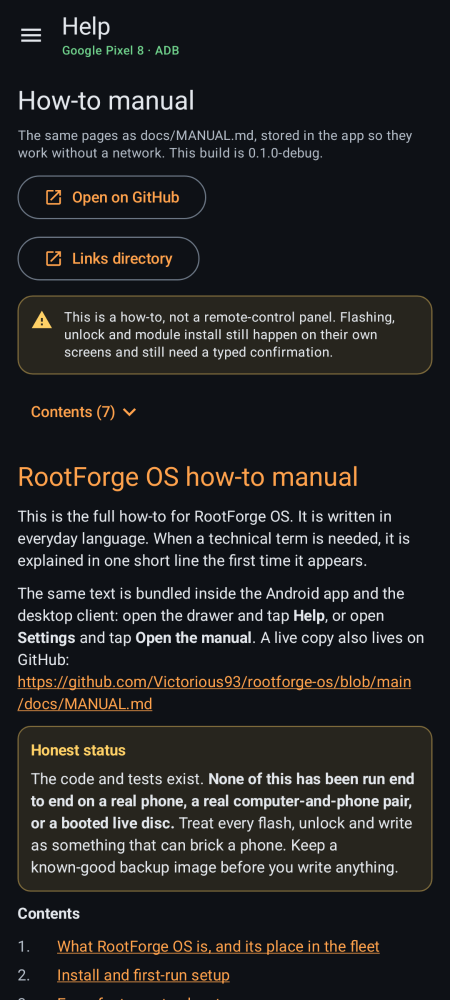
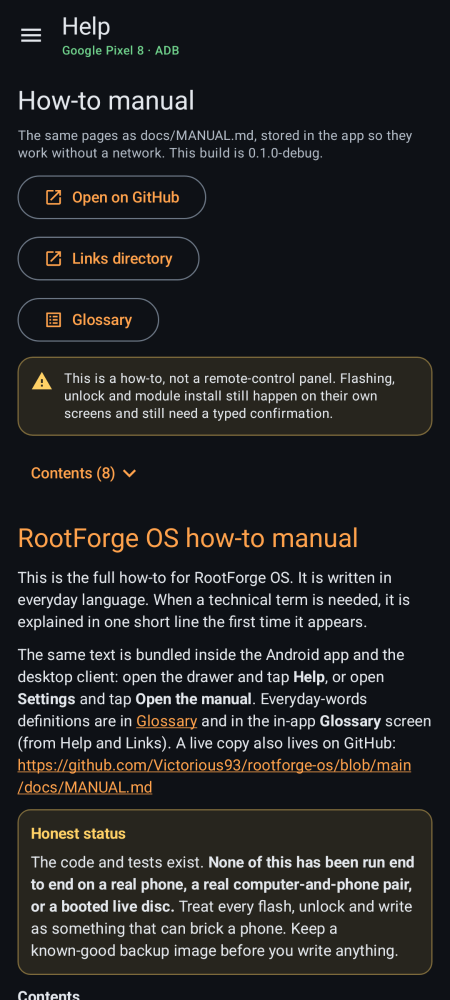
test: record Glossary Paparazzi goldens and suite counts
AutoMirrored ListAlt icon, help/links/glossary screenshots, MANUAL
screenshot, and verified counts: :core 324/0, :desktop 2/0, :app 34/0,
assembleDebug identity unchanged, hermetic 1055/0, lint clean.

Not run on a phone.

diff --git a/android-app/app/src/main/kotlin/ai/rootforge/os/ui/screens/LinksScreen.kt b/android-app/app/src/main/kotlin/ai/rootforge/os/ui/screens/LinksScreen.kt
@@ -16,7 +16,7 @@ import androidx.compose.foundation.layout.FlowRow
 import androidx.compose.material.icons.Icons
 import androidx.compose.material.icons.automirrored.filled.OpenInNew
 import androidx.compose.material.icons.filled.Link
-import androidx.compose.material.icons.filled.ListAlt
+import androidx.compose.material.icons.automirrored.filled.ListAlt
 import androidx.compose.material3.MaterialTheme
 import androidx.compose.material3.Text
 import androidx.compose.runtime.Composable
@@ -33,7 +33,7 @@ fun LinksScreen(actions: AppActions, onOpenGlossary: () -> Unit = {}) {
             "These are official project pages. Tapping a button opens the system browser. " +
                 "RootForge does not download, install or vet anything from this list.",
         )
-        ActionButton("Glossary", Icons.Filled.ListAlt, ActionKind.Outline) { onOpenGlossary() }
+        ActionButton("Glossary", Icons.AutoMirrored.Filled.ListAlt, ActionKind.Outline) { onOpenGlossary() }
         LinkSection.entries.forEach { section ->
             val links = DirectoryLinks.all.filter { it.section == section }
             if (links.isNotEmpty()) {

diff --git a/android-app/app/src/main/kotlin/ai/rootforge/os/ui/RootForgeUi.kt b/android-app/app/src/main/kotlin/ai/rootforge/os/ui/RootForgeUi.kt
@@ -36,7 +36,7 @@ import androidx.compose.material.icons.filled.Extension
 import androidx.compose.material.icons.filled.FlashOn
 import androidx.compose.material.icons.automirrored.filled.Help
 import androidx.compose.material.icons.filled.Link
-import androidx.compose.material.icons.filled.ListAlt
+import androidx.compose.material.icons.automirrored.filled.ListAlt
 import androidx.compose.material.icons.filled.Memory
 import androidx.compose.material.icons.filled.QuestionAnswer
 import androidx.compose.material.icons.filled.Menu
@@ -88,7 +88,7 @@ enum class Destination(val title: String, val icon: ImageVector) {
     Settings("Settings", Icons.Filled.Settings),
     Help("Help", Icons.AutoMirrored.Filled.Help),
     Links("Links", Icons.Filled.Link),
-    Glossary("Glossary", Icons.Filled.ListAlt),
+    Glossary("Glossary", Icons.AutoMirrored.Filled.ListAlt),
 }
 
 @OptIn(ExperimentalMaterial3Api::class)

diff --git a/android-app/app/src/main/kotlin/ai/rootforge/os/ui/screens/ManualScreen.kt b/android-app/app/src/main/kotlin/ai/rootforge/os/ui/screens/ManualScreen.kt
@@ -22,7 +22,7 @@ import androidx.compose.material.icons.Icons
 import androidx.compose.material.icons.filled.ExpandLess
 import androidx.compose.material.icons.filled.ExpandMore
 import androidx.compose.material.icons.automirrored.filled.OpenInNew
-import androidx.compose.material.icons.filled.ListAlt
+import androidx.compose.material.icons.automirrored.filled.ListAlt
 import androidx.compose.material3.HorizontalDivider
 import androidx.compose.material3.Icon
 import androidx.compose.material3.MaterialTheme
@@ -93,7 +93,7 @@ fun ManualScreen(
                 ) { onOpenLinks() }
                 ActionButton(
                     "Glossary",
-                    Icons.Filled.ListAlt,
+                    Icons.AutoMirrored.Filled.ListAlt,
                     ActionKind.Outline,
                 ) { onOpenGlossary() }
             }

diff --git a/CLAUDE.md b/CLAUDE.md
@@ -21,7 +21,12 @@ matrix: `docs/PLATFORM_SUPPORT.md`. Security: `docs/SECURITY_MODEL.md`. Plan:
 > `docs/MANUAL.md` § Glossary (bundled in Help). Links still lists Xposed,
 > LSPosed, Vector and Sui. `:core` `GlossaryTest` requires every entry
 > non-empty and unique. `applicationId`, signing and versioning unchanged.
-> **Suite counts filled after tests this session.** **Not run:** a phone.
+> `:core:test` 324/0 (`GlossaryTest` 3); `:desktop:test` 2/0;
+> `:app:testDebugUnitTest` 34/0 (Paparazzi `glossary` / `help` / `links`);
+> `:app:assembleDebug` (`aapt dump badging`: `ai.rootforge.os.debug` /
+> `versionCode=1` / `versionName=0.1.0-debug`); `bash tests/run-tests.sh`
+> 1055/0; `bash tests/lint.sh` clean (shellcheck 0.11.0 via the repo wheel).
+> **Not run:** a phone, the desktop window.
 
 > **Update 2026-10-20 (local module install on this phone):** branch
 > `feat/local-module-install` (PR #81). Merged `origin/main` `ef088d3` (#80
@@ -309,11 +314,10 @@ original work GPL-3.0-or-later (`LICENSE`); shared Kotlin `:core` Apache-2.0
   APKs unchanged. Desktop no-op. Same PR: **Links** directory of official
   https pages, browser only; **Glossary** drawer screen (`:core`
   `Glossary`) from Help and Links, same text in `docs/MANUAL.md`. After
-  merging `ef088d3` / #80: `:core:test` 321/0, `:desktop:test` 2/0,
-  `:app:testDebugUnitTest` 33/0, `:app:assembleDebug`
+  merging `ef088d3` / #80 plus Glossary: `:core:test` 324/0,
+  `:desktop:test` 2/0, `:app:testDebugUnitTest` 34/0, `:app:assembleDebug`
   (`ai.rootforge.os.debug` / `0.1.0-debug`), `tests/run-tests.sh` 1055/0,
-  `tests/lint.sh` clean (glossary suite counts filled after this session).
-  **Not run on a phone.**
+  `tests/lint.sh` clean. **Not run on a phone.**
 - Custom RR → Custom Recovery (PR #80, on `main` as `ef088d3`): matching
   TWRP/PitchBlack catalog rows open Custom Recovery pre-filled; official
   lookup uses the probed phone; `pitchblack.tech` added to the https host

diff --git a/CHANGELOG.md b/CHANGELOG.md
@@ -10,6 +10,7 @@ Nothing here has been validated on real hardware, a booted ISO, a VM or a phone;
 ### Glossary (2026-10-20)
 - In-app **Glossary** drawer screen (`:core` `Glossary`): one short everyday-words line per term (root, su, Magisk, KernelSU, KernelSU Next, APatch, module, Zygisk, Zygisk Next, ReZygisk, Xposed, LSPosed, Vector, Shizuku, Sui, Dhizuku, ADB, fastboot, EDL, bootloader, recovery, TWRP, PitchBlack, boot image, ROM, flash, dry run, SHA-256/checksum, bootloop). Reachable from Help and Links as well as the drawer. The same text is `docs/MANUAL.md` § Glossary (bundled in Help). Official Magisk / LSPosed / Vector / Sui pages stay on **Links**.
 - `:core` `GlossaryTest` requires every term and line to be non-empty and unique. `DirectoryLinksTest` still requires Xposed, LSPosed, Vector and Sui on the Links list.
+- Tests: `:core:test` 324/0 (`GlossaryTest` 3); `:desktop:test` 2/0; `:app:testDebugUnitTest` 34/0 (Paparazzi `glossary` recorded; `help` / `links` re-recorded); `:app:assembleDebug` (`aapt dump badging`: `ai.rootforge.os.debug` / `versionCode=1` / `versionName=0.1.0-debug`); `bash tests/run-tests.sh` 1055/0; `bash tests/lint.sh` clean (shellcheck 0.11.0). **Not run on a phone.**
 
 ### Local module install on this phone (2026-10-20)
 - Modules gains a **This phone** tab (Android APK). When this phone is rooted, a zip from the library is installed with the active manager: Magisk `magisk --install-module`, KernelSU `ksud module install`, APatch `apd module install`. The manager is auto-detected from installed packages (`RootManager.detect`) and, after List, from `/data/adb` (`ksud` / `apd` / `magisk`); the dropdown still overrides. Kitsune is detected but remains [UNSUPPORTED] and assumed Magisk-like.

diff --git a/README.md b/README.md
@@ -195,6 +195,10 @@ Rendered by Paparazzi unit tests with sample data. **These are not captures from
 |---|---|---|---|---|---|---|
 | <img src="android-app/screenshots/ai.rootforge.os.ui_ScreenshotTest_dashboard.png" alt="Dashboard screen" width="140"> | <img src="android-app/screenshots/ai.rootforge.os.ui_ScreenshotTest_flashTools.png" alt="Flash Tools screen" width="140"> | <img src="android-app/screenshots/ai.rootforge.os.ui_ScreenshotTest_adb.png" alt="ADB screen" width="140"> | <img src="android-app/screenshots/ai.rootforge.os.ui_ScreenshotTest_fastboot.png" alt="Fastboot screen" width="140"> | <img src="android-app/screenshots/ai.rootforge.os.ui_ScreenshotTest_modules.png" alt="Module Builder screen" width="140"> | <img src="android-app/screenshots/ai.rootforge.os.ui_ScreenshotTest_settings.png" alt="Settings screen" width="140"> | <img src="android-app/screenshots/ai.rootforge.os.ui_ScreenshotTest_help.png" alt="Help / how-to manual screen" width="140"> |
 
+| Links | Glossary |
+|---|---|
+| <img src="android-app/screenshots/ai.rootforge.os.ui_ScreenshotTest_links.png" alt="Links directory screen" width="140"> | <img src="android-app/screenshots/ai.rootforge.os.ui_ScreenshotTest_glossary.png" alt="Glossary screen" width="140"> |
+
 Live ISO, Calamares installer and Termux screenshots will come after a real boot and install.
 
 ## Install and run

diff --git a/android-app/core/src/main/resources/ai/rootforge/os/manual/MANUAL.md b/android-app/core/src/main/resources/ai/rootforge/os/manual/MANUAL.md
@@ -806,6 +806,8 @@ No accounts. No cloud. No phone-home. Uninstalling the app (or the one-time v0.2
 
 ## Glossary
 
+![Glossary](../android-app/screenshots/ai.rootforge.os.ui_ScreenshotTest_glossary.png)
+
 Drawer entry **Glossary**, also from Help and from Links. One short line per term, in everyday words. Official Magisk, LSPosed, Vector, Shizuku and Sui pages stay on **Links**. Nothing here is a how-to or a download.
 
 **Root.** Extra control over the phone so some apps can do things a normal app is not allowed to.

diff --git a/docs/MANUAL.md b/docs/MANUAL.md
@@ -806,6 +806,8 @@ No accounts. No cloud. No phone-home. Uninstalling the app (or the one-time v0.2
 
 ## Glossary
 
+![Glossary](../android-app/screenshots/ai.rootforge.os.ui_ScreenshotTest_glossary.png)
+
 Drawer entry **Glossary**, also from Help and from Links. One short line per term, in everyday words. Official Magisk, LSPosed, Vector, Shizuku and Sui pages stay on **Links**. Nothing here is a how-to or a download.
 
 **Root.** Extra control over the phone so some apps can do things a normal app is not allowed to.
